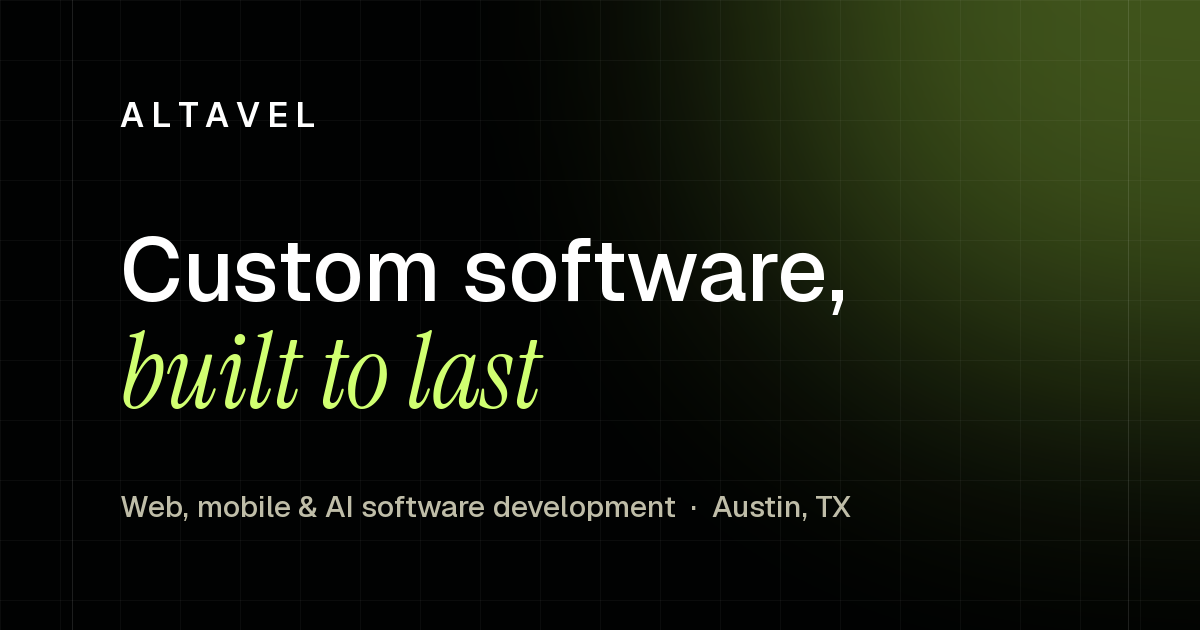
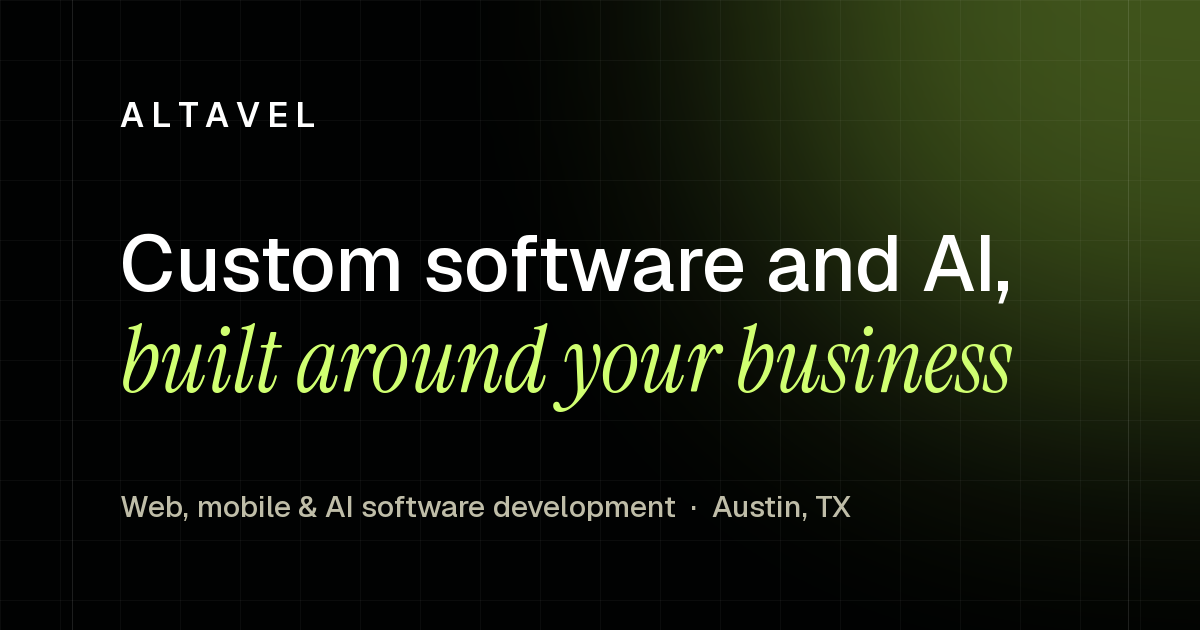
New hero slogan: Custom software and AI, built around your business
- Step the hero heading down one size so the longer slogan stays on two
  lines at every width (smaller at 1024px where the split layout starts)
- Update the social preview image and home page search title

Changed region(s): [[0.0925, 0.5127, 0.8633, 0.6635], [0.0925, 0.3619, 0.8633, 0.4825]]

diff --git a/src/components/sections/hero.jsx b/src/components/sections/hero.jsx
@@ -28,9 +28,9 @@ export function HeroSection() {
           <HeroColorPanelsContent className="md:px-4 lg:pl-0 xl:pl-0">
             {/* Same styling as the component's default heading, but as the page's h1. */}
             <HeroColorPanelsHeading>
-              <h1 className="3xl:text-8xl relative mb-0 text-3xl font-medium tracking-[-0.04em] text-balance sm:text-4xl md:text-5xl lg:tracking-[-0.06em] xl:text-6xl 2xl:text-7xl">
-                Custom software, <br />
-                <Accent>built to last</Accent>
+              <h1 className="3xl:text-7xl relative mb-0 text-3xl font-medium tracking-[-0.04em] text-balance sm:text-4xl md:text-5xl lg:text-4xl lg:tracking-[-0.06em] xl:text-5xl 2xl:text-6xl">
+                Custom software and AI, <br />
+                <Accent>built around your business</Accent>
               </h1>
             </HeroColorPanelsHeading>
             <HeroColorPanelsDescription description="Altavel is a software engineering company. We design, build, and support web, mobile, and AI products for growing businesses, with clear milestones and code you own from day one." />

diff --git a/src/seo/site.js b/src/seo/site.js
@@ -23,7 +23,7 @@ export const ORGANIZATION = {
 // have real content.
 export const PAGES = {
   '/': {
-    title: 'Altavel | Custom Software Development Company in Austin',
+    title: 'Altavel | Custom Software & AI Development in Austin',
     description:
       'Altavel designs, builds, and supports custom web, mobile, and AI software for growing businesses, with clear milestones and code you own. Austin, TX.',
   },
